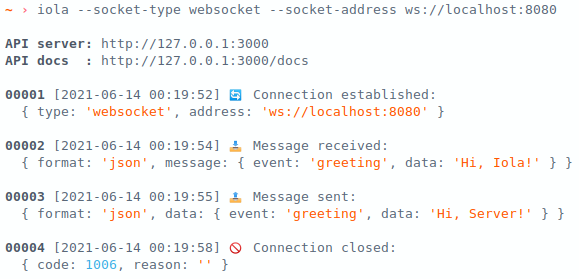
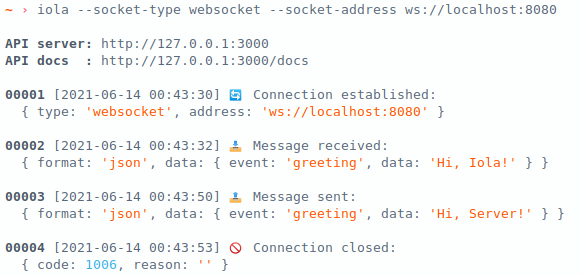
Update parsing of received messages

diff --git a/src/core/common/util/message.util.ts b/src/core/common/util/message.util.ts
@@ -1,4 +1,10 @@
-import { MessageFormat, PackedMessage, PackedMessageInfo, UnpackedMessage } from '@iola/core/common'
+import {
+  MessageFormat,
+  PackedMessage,
+  PackedMessageInfo,
+  UnpackedMessage,
+  UnpackedMessageInfo,
+} from '@iola/core/common'
 import { inspect } from 'util'
 
 export class MessageUtil {
@@ -23,26 +29,26 @@ export class MessageUtil {
     return info
   }
 
-  static unpack(message: PackedMessage): UnpackedMessage {
-    const info: UnpackedMessage = {
+  static unpack(message: PackedMessage): UnpackedMessageInfo {
+    const info: UnpackedMessageInfo = {
       format: MessageFormat.String,
-      message: ''
+      data: ''
     }
 
     if (typeof message === 'string') {
       if (message.includes('{') || message.includes('[')) {
         try {
-          info.message = JSON.parse(message)
+          info.data = JSON.parse(message)
           info.format = MessageFormat.JSON
         } catch (error) {}
       }
       else {
-        info.message = message
+        info.data = message
         info.format = MessageFormat.String
       }
     }
     else {
-      info.message = Array.from(new Uint8Array(message as Buffer))
+      info.data = Array.from(new Uint8Array(message as Buffer))
       info.format = MessageFormat.ByteArray
     }
 
